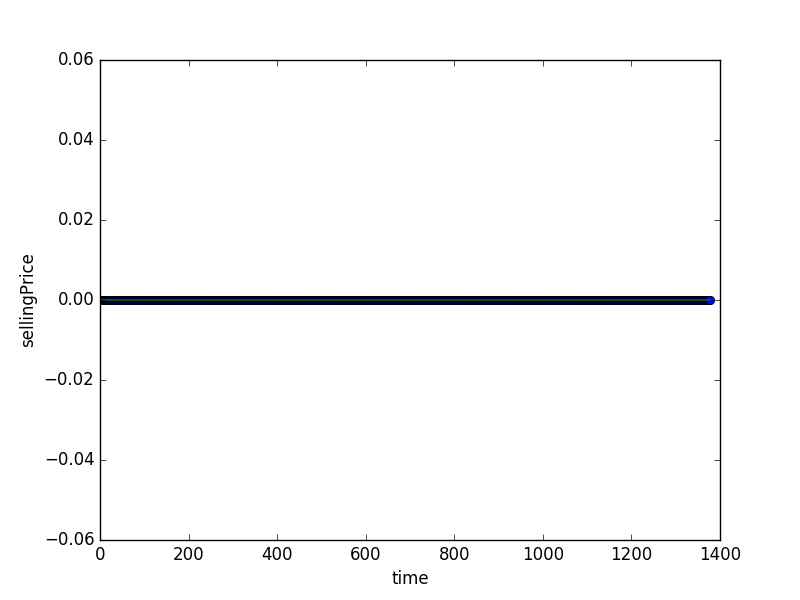
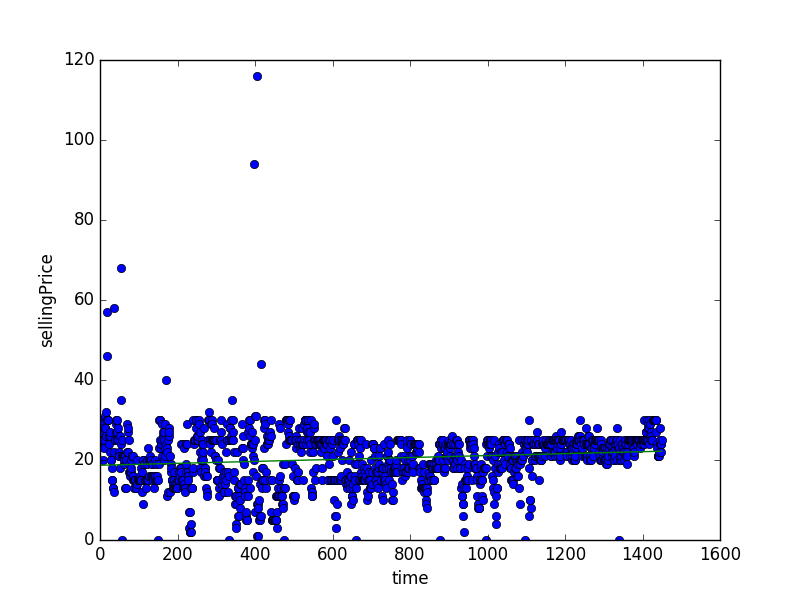
Classified centroids based off std-dev

diff --git a/ors.py b/ors.py
@@ -109,8 +109,8 @@ def SlopeEvaluation (ls):
 ##############################################################################################
 def PlotData (ls):
     itemLs = []
-    paramLs = ['buyingPrice', 'buyingCompleted', 'sellingPrice', 'sellingCompleted', 'overallPrice', 'overallCompleted']
-    #paramLs = ['sellingCompleted', 'buyingCompleted']
+    #paramLs = ['buyingPrice', 'buyingCompleted', 'sellingPrice', 'sellingCompleted', 'overallPrice', 'overallCompleted']
+    paramLs = ['overallPrice']
 
     for param in paramLs: 
         itemLs = GetItemList(ls, param)
@@ -152,6 +152,7 @@ def UnsupervisedAnomaly(ls):
     itemLs = GetItemList(ls, param)
     sz = len(itemLs)
     xi = numpy.arange(0, sz)
+
     data = []
     
     for i,j in zip(xi, itemLs):
@@ -160,6 +161,14 @@ def UnsupervisedAnomaly(ls):
     colors = ('red', 'blue')
     xy = numpy.array(data)
     centroids,_ = kmeans(xy,2)
+
+    mean = statistics.mean(itemLs)
+    variance = statistics.variance(itemLs)
+    sigma = math.sqrt(variance)
+
+    mid = len(xi)//2
+
+    centroids = numpy.array([[mid, mean], [mid, (mean+(sigma*3))]])
 
     # manual centroids
     # yew logs
@@ -191,8 +200,9 @@ def ORS_HistoricalData ():
     # yew logs - 1515
     # bronze dagger - 1205
 
-    itemID = '1515'
+    #itemID = '1515'
     #itemID = '1205'
+    itemID = '02'
 
     #startTime = '1357027200000'
     startTime = str(1488614400000 - (86400000*28))
@@ -204,7 +214,7 @@ def ORS_HistoricalData ():
     sz = len(itemData)
 
     #FiveNumSummary(itemData)
-    #PlotData(itemData)
+    PlotData(itemData)
     #PlotNormalDist(itemData)
     #SlopeEvaluation(itemData)
     UnsupervisedAnomaly(itemData)
